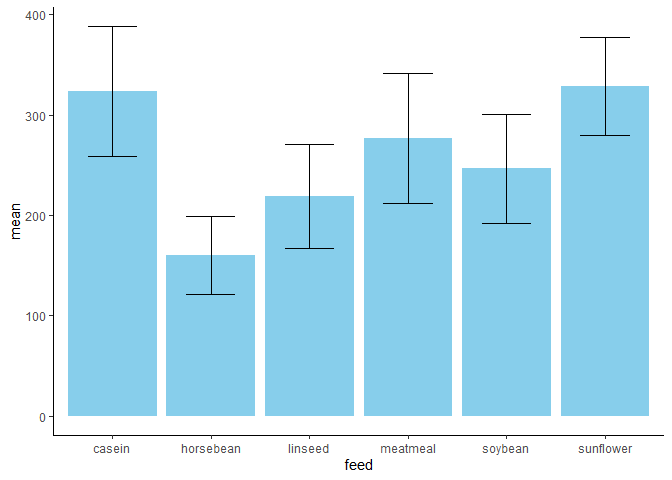
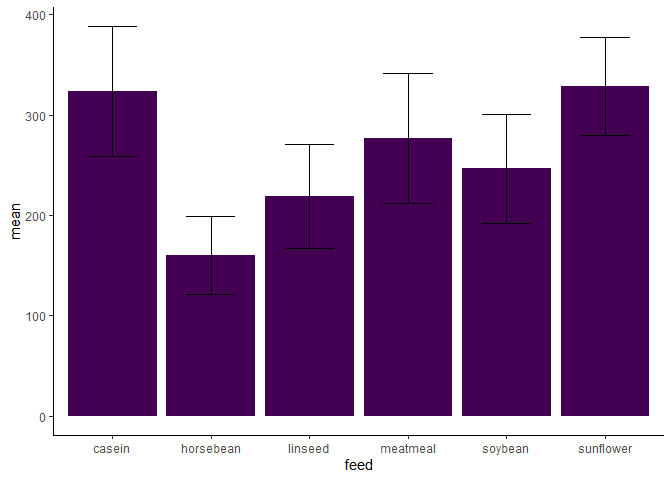
updated color scheme in ggplot2

diff --git a/report/make_table_figure.html b/report/make_table_figure.html
@@ -591,9 +591,11 @@ pre code {
 
 <div id="load-libraries-and-data" class="section level1">
 <h1>Load libraries and data</h1>
-<pre class="r"><code>library(magrittr)
-library(kableExtra)
-library(modelsummary)
+<pre class="r"><code>library(magrittr)</code></pre>
+<pre><code>## Warning: package &#39;magrittr&#39; was built under R version 4.0.3</code></pre>
+<pre class="r"><code>library(kableExtra)</code></pre>
+<pre><code>## Warning: package &#39;kableExtra&#39; was built under R version 4.0.5</code></pre>
+<pre class="r"><code>library(modelsummary)
 library(ggplot2)
 df &lt;- chickwts</code></pre>
 </div>
@@ -971,26 +973,29 @@ df %&gt;%
   dplyr::group_by(feed) %&gt;%
   dplyr::summarise(
     mean = mean(weight),
-    upper = mean(weight) + sd(weight),
-    lower = mean(weight) - sd(weight),
     .groups = &quot;drop&quot;
   ) %&gt;%
+  dplyr::mutate(group = &quot;all&quot;) %&gt;%
   ggplot(
     aes(
       x = feed,
-      y = mean
+      y = mean,
+      fill = group
     )
   ) +
   geom_bar(
-    stat = &quot;identity&quot;,
-    fill = &quot;skyblue&quot;
+    stat = &quot;identity&quot;
     ) +
   labs(
     x = &quot;Feed&quot;,
     y = &quot;Weight (g)&quot;
   ) +
-  theme_classic() </code></pre>
[1 lines of base64/hex data omitted]
+  scale_fill_viridis_d() +
+  theme_classic() +
+  theme(
+    legend.position = &quot;none&quot;
+  )</code></pre>
[1 lines of base64/hex data omitted]
 <pre class="r"><code># save
 ggsave(
   filename = here::here(&quot;figuretable/tutorial_figure_bar_ggplot2.png&quot;),
@@ -1009,15 +1014,16 @@ df %&gt;%
     lower = mean(weight) - sd(weight),
     .groups = &quot;drop&quot;
   ) %&gt;%
+  dplyr::mutate(group = &quot;all&quot;) %&gt;%
   ggplot(
     aes(
       x = feed,
-      y = mean
+      y = mean,
+      fill = group
     )
   ) +
   geom_bar(
-    stat = &quot;identity&quot;,
-    fill = &quot;skyblue&quot;
+    stat = &quot;identity&quot;
     ) +
   geom_errorbar(
     aes(
@@ -1027,8 +1033,12 @@ df %&gt;%
     ),
     width = 0.5
   ) +
-  theme_classic()</code></pre>
[1 lines of base64/hex data omitted]
+  scale_fill_viridis_d() +
+  theme_classic() +
+  theme(
+    legend.position = &quot;none&quot;
+  )</code></pre>
[1 lines of base64/hex data omitted]
 <pre class="r"><code># save
 ggsave(
   filename = here::here(&quot;figuretable/tutorial_figure_errorbar_ggplot2.png&quot;),

diff --git a/report/make_table_figure.md b/report/make_table_figure.md
@@ -12,7 +12,21 @@ output:
 
 ```r
 library(magrittr)
+```
+
+```
+## Warning: package 'magrittr' was built under R version 4.0.3
+```
+
+```r
 library(kableExtra)
+```
+
+```
+## Warning: package 'kableExtra' was built under R version 4.0.5
+```
+
+```r
 library(modelsummary)
 library(ggplot2)
 df <- chickwts
@@ -251,25 +265,28 @@ df %>%
   dplyr::group_by(feed) %>%
   dplyr::summarise(
     mean = mean(weight),
-    upper = mean(weight) + sd(weight),
-    lower = mean(weight) - sd(weight),
     .groups = "drop"
   ) %>%
+  dplyr::mutate(group = "all") %>%
   ggplot(
     aes(
       x = feed,
-      y = mean
+      y = mean,
+      fill = group
     )
   ) +
   geom_bar(
-    stat = "identity",
-    fill = "skyblue"
+    stat = "identity"
     ) +
   labs(
     x = "Feed",
     y = "Weight (g)"
   ) +
-  theme_classic() 
+  scale_fill_viridis_d() +
+  theme_classic() +
+  theme(
+    legend.position = "none"
+  )
 ```
 
 ![](make_table_figure_files/figure-html/unnamed-chunk-4-1.png)<!-- -->
@@ -296,15 +313,16 @@ df %>%
     lower = mean(weight) - sd(weight),
     .groups = "drop"
   ) %>%
+  dplyr::mutate(group = "all") %>%
   ggplot(
     aes(
       x = feed,
-      y = mean
+      y = mean,
+      fill = group
     )
   ) +
   geom_bar(
-    stat = "identity",
-    fill = "skyblue"
+    stat = "identity"
     ) +
   geom_errorbar(
     aes(
@@ -314,7 +332,11 @@ df %>%
     ),
     width = 0.5
   ) +
-  theme_classic()
+  scale_fill_viridis_d() +
+  theme_classic() +
+  theme(
+    legend.position = "none"
+  )
 ```
 
 ![](make_table_figure_files/figure-html/unnamed-chunk-5-1.png)<!-- -->
